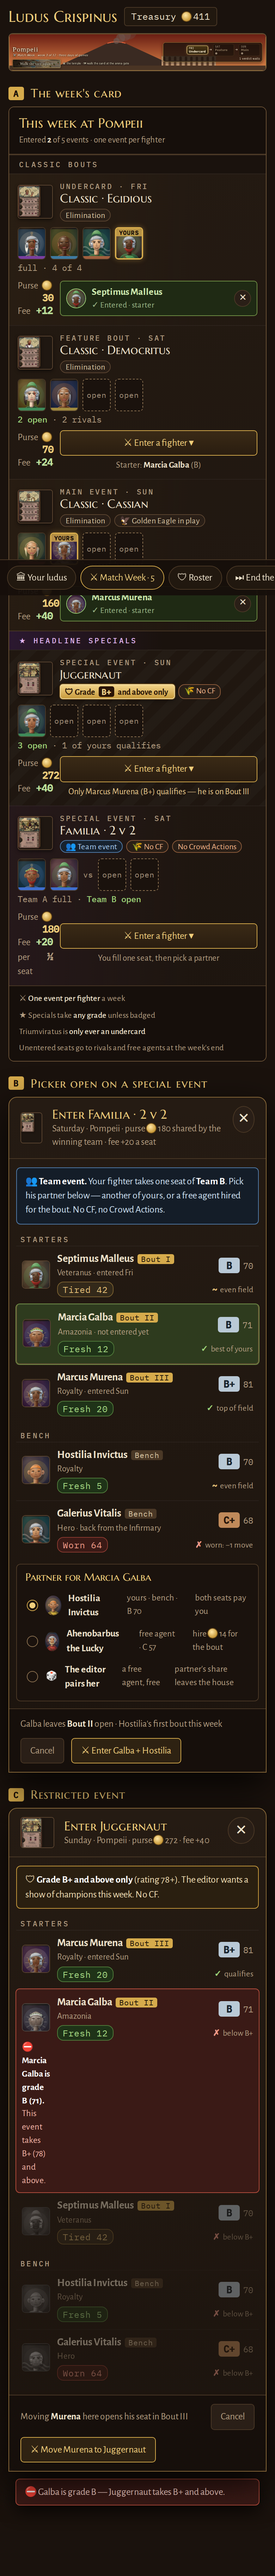
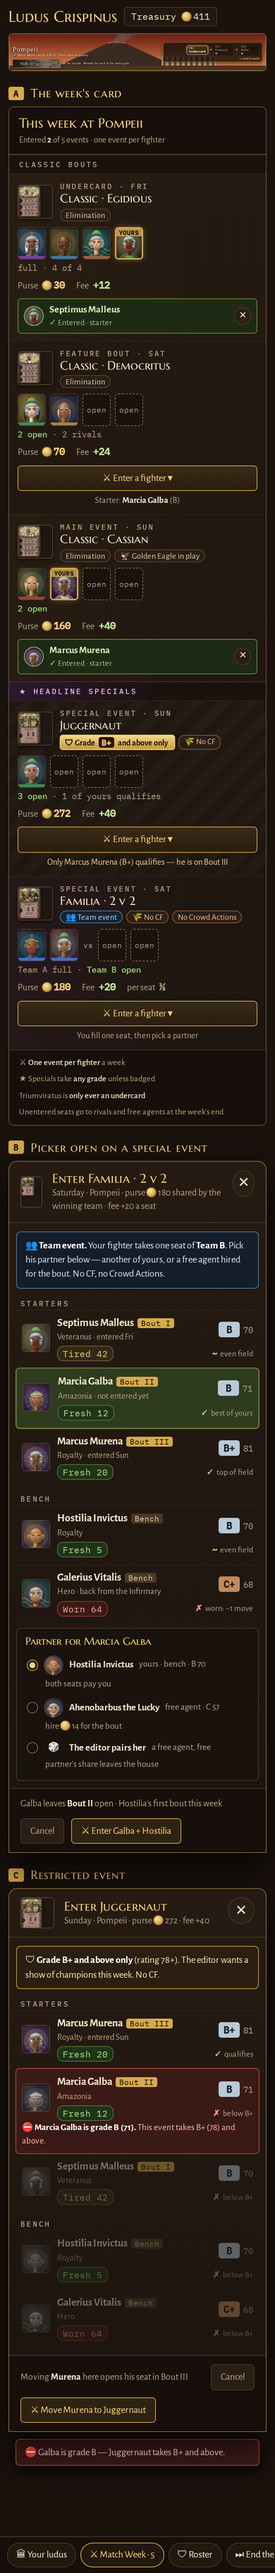
mock100: enter any event mock-up [skip ci]
Claude-Session: https://claude.ai/code/session_01BLtNGuDrMd265uhsDUPs5S

Changed region(s): [[0.0308, 0.0625, 0.9538, 1.0], [0.8615, 0.2188, 0.8923, 0.25], [0.8615, 0.0938, 0.8923, 0.125]]

diff --git a/tools/plans/mock100/anyevent.html b/tools/plans/mock100/anyevent.html
@@ -140,12 +140,13 @@ body{background:#1a120d;overflow:auto}
  .lbl{font-size:17px;margin:20px 0 8px}
  .lbl small{display:none}
  .wkhd{flex-wrap:wrap;gap:4px 10px}.wkhd .k{font-size:12.5px}
- .ev{grid-template-columns:50px 1fr;grid-template-areas:"art tt" "seats seats" "mon act";gap:8px 10px;padding:10px 12px}
+ .ev{grid-template-columns:50px 1fr;grid-template-areas:"art tt" "seats seats" "mon mon" "act act";gap:8px 10px;padding:10px 12px}
  .ev .day{display:none}
  .ev .art{grid-area:art;width:50px;height:48px}
  .ev .tt{grid-area:tt}.ev .tt h3{font-size:17px}
  .ev .sx{grid-area:seats}
- .ev .mon{grid-area:mon;align-self:start}
+ .ev .mon{grid-area:mon;display:flex;gap:16px}
+ .ev .mon div{gap:6px}
  .ev .act{grid-area:act}
  .tier .dd{display:inline}
  .seat{width:40px;height:46px}
@@ -159,11 +160,12 @@ body{background:#1a120d;overflow:auto}
  .fr .nm{grid-area:nm}.fr .gd{grid-area:gd;justify-self:end}
  .fr .ft{grid-area:ft;justify-self:start}.fr .fit{grid-area:fit;justify-self:end;font-size:12px}
  .fr .act2{display:none}
- .fr .why{grid-area:why;grid-column:auto}
+ .fr .why{grid-area:why}
  .what,.part{margin-left:10px;margin-right:10px}
  .pkft{flex-wrap:wrap}
  .toast{position:static;margin:10px}
- .mob{display:flex;position:fixed;left:0;right:0;bottom:0;gap:6px;padding:8px 10px;background:#160f0bf2;border-top:1px solid var(--line2);overflow:hidden}
+ .opt{flex-wrap:wrap;gap:4px 8px}.opt .sp{display:none}.opt span:last-child{flex-basis:100%;padding-left:26px}
+ .mob{display:flex;position:sticky;left:0;right:0;bottom:0;gap:6px;padding:8px 10px;background:#160f0bf2;border-top:1px solid var(--line2);overflow:hidden}
  .mob a{flex:none;border:1px solid var(--line2);border-radius:18px;padding:6px 12px;font-size:14px;color:var(--bone);text-decoration:none;background:#21180f}
  .mob a.on{border-color:var(--gold);color:var(--gold2)}
 }

diff --git a/tools/plans/mock100/anyevent_shot.js b/tools/plans/mock100/anyevent_shot.js
@@ -1,7 +1,7 @@
 /* Shots of the any-event mock: node tools/plans/mock100/anyevent_shot.js */
 const {chromium}=require('playwright');(async()=>{const b=await chromium.launch();
 for(const [W,H,dpr] of [[1440,900,1],[390,844,2]]){const pg=await b.newPage({viewport:{width:W,height:H},deviceScaleFactor:dpr});
-await pg.goto('file://'+__dirname+'/anyevent.html');await pg.waitForTimeout(600);
+await pg.goto('file://'+__dirname+'/anyevent.html');await pg.addStyleTag({content:'.mob{position:static!important}'});await pg.waitForTimeout(600);
 await pg.screenshot({path:__dirname+`/anyevent_${W}.png`,fullPage:true});
 const ov=await pg.evaluate(()=>document.documentElement.scrollWidth-innerWidth);console.log(W,'overflow',ov);await pg.close()}
 await b.close()})();
